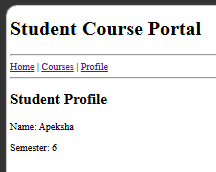
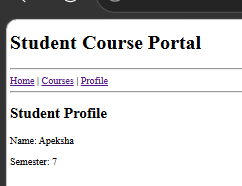
Hands-On 7 - Implemented routing

Changed region(s): [[0.0, 0.0, 1.0, 1.0]]

diff --git a/src/app/pages/student-profile/student-profile.html b/src/app/pages/student-profile/student-profile.html
@@ -2,4 +2,4 @@
 
 <p>Name: Apeksha</p>
 
-<p>Semester: 6</p>
+<p>Semester: 7</p>

diff --git a/src/app/services/student.ts b/src/app/services/student.ts
@@ -9,7 +9,7 @@ export class StudentService {
 
   course = 'Java';
 
-  semester = 6;
+  semester = 7;
 
   getStudentDetails() {
     return {